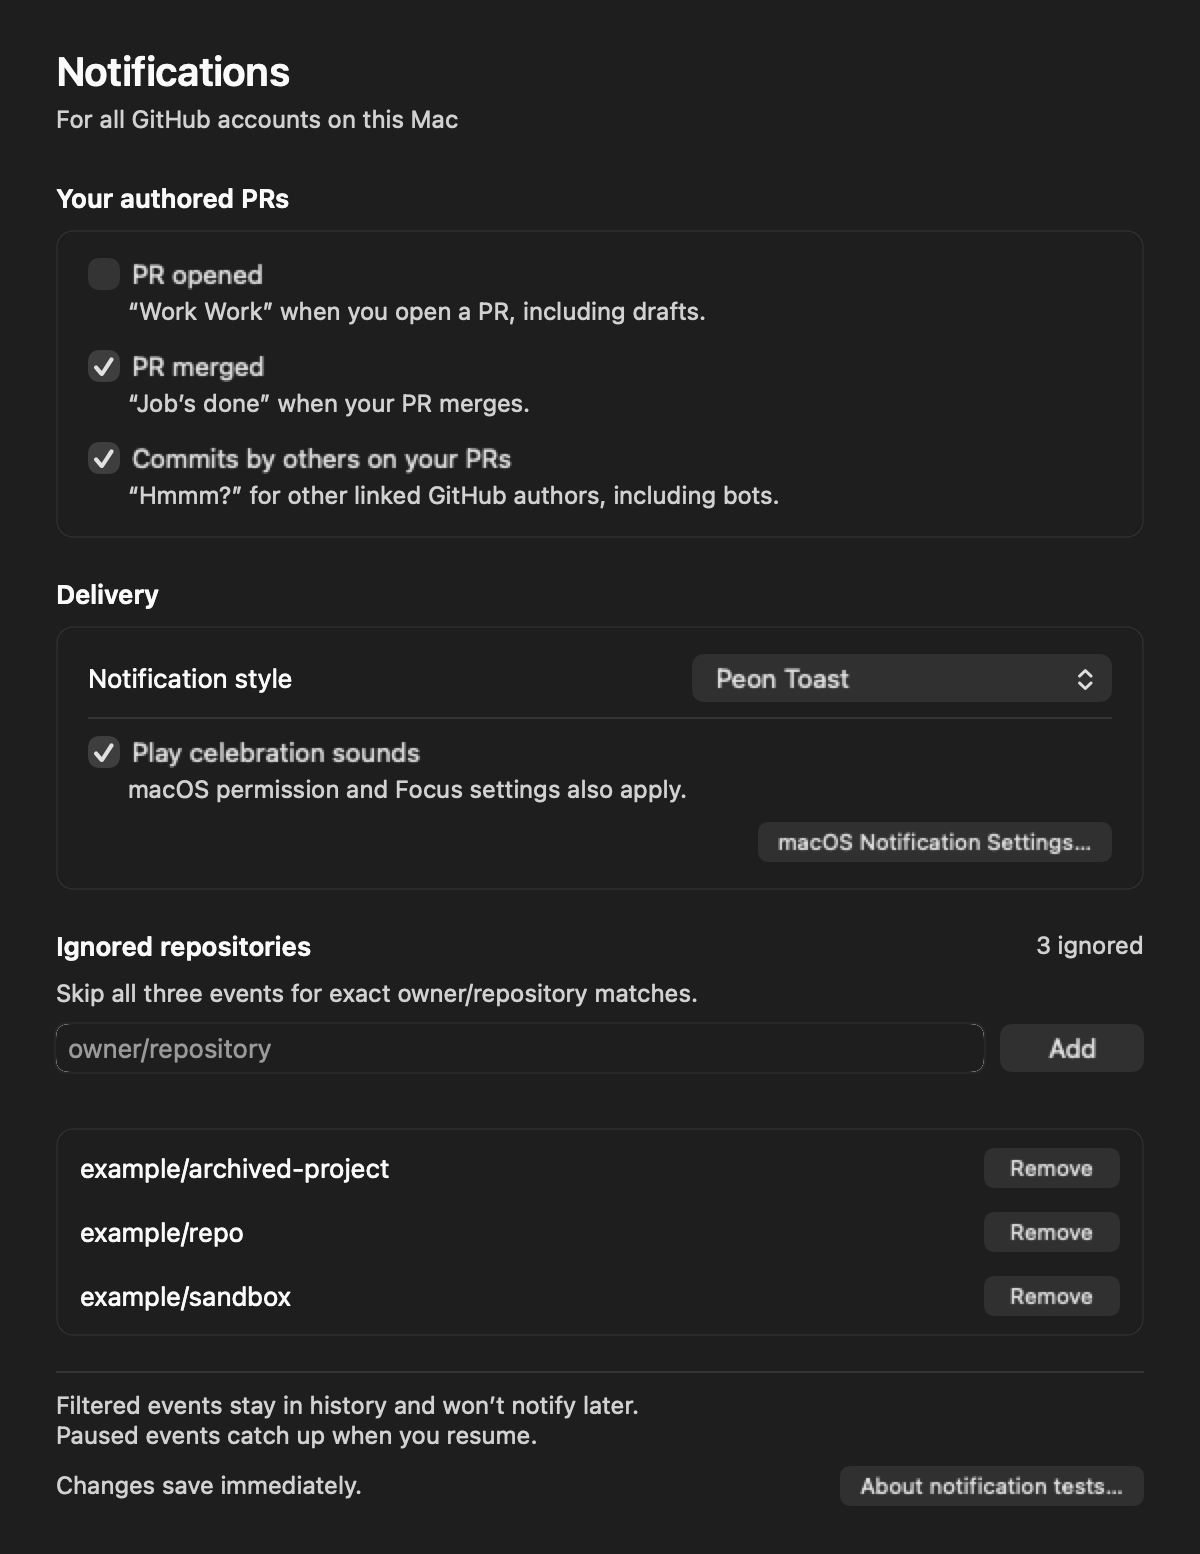
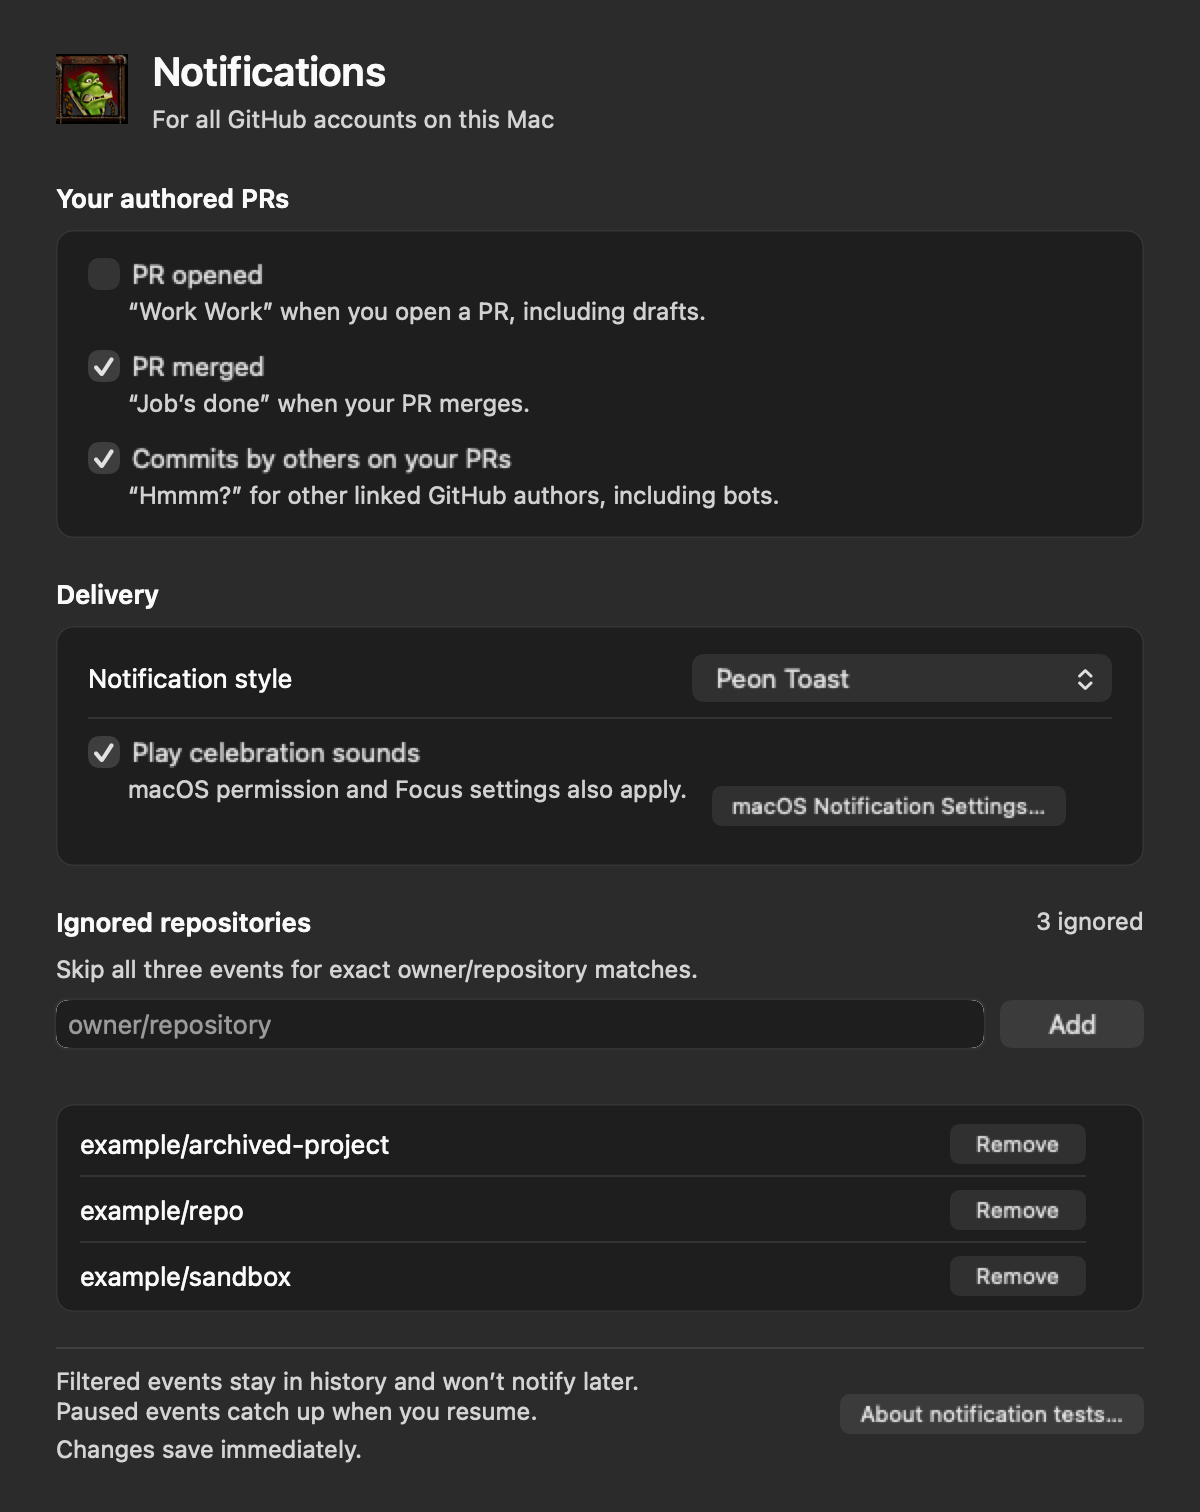
style(settings): refine surfaces and notification pane composition

diff --git a/Sources/NotificationSettings.swift b/Sources/NotificationSettings.swift
@@ -44,7 +44,9 @@ final class NotificationSettingsController: NSWindowController {
         return label
     }
     private func build() {
-        guard let content = window?.contentView else { return }
+        guard let window else { return }
+        let content = SettingsBackground(frame: window.contentView?.frame ?? .zero)
+        window.contentView = content
         let stack = NSStackView()
         stack.orientation = .vertical
         stack.alignment = .leading
@@ -87,7 +89,18 @@ final class NotificationSettingsController: NSWindowController {
         }
         let title = label("Notifications", heading: true)
         title.font = .systemFont(ofSize: 20, weight: .semibold)
-        add(vertical([title, label("For all GitHub accounts on this Mac")], spacing: 4))
+        let titleBlock = vertical([title, label("For all GitHub accounts on this Mac")], spacing: 4)
+        let header = NSStackView(views: [titleBlock])
+        header.spacing = 12
+        if let path = Bundle.main.path(forResource: "PeonPortrait", ofType: "png"), let image = NSImage(contentsOfFile: path) {
+            let portrait = NSImageView(image: image)
+            portrait.imageScaling = .scaleProportionallyUpOrDown
+            portrait.setAccessibilityElement(false)
+            portrait.widthAnchor.constraint(equalToConstant: 36).isActive = true
+            portrait.heightAnchor.constraint(equalToConstant: 36).isActive = true
+            header.insertArrangedSubview(portrait, at: 0)
+        }
+        add(header)
         stack.setCustomSpacing(24, after: stack.arrangedSubviews.last!)
         add(label("Your authored PRs", heading: true))
         var eventRows: [NSView] = []
@@ -124,16 +137,20 @@ final class NotificationSettingsController: NSWindowController {
         soundButton.font = .systemFont(ofSize: 13)
         soundStatus.font = .systemFont(ofSize: 12)
         soundStatus.textColor = .secondaryLabelColor
-        soundStatus.maximumNumberOfLines = 1
-        soundStatus.heightAnchor.constraint(equalToConstant: 16).isActive = true
-        let soundRow = vertical([soundButton, soundStatus], spacing: 3)
-        soundStatus.leadingAnchor.constraint(equalTo: soundRow.leadingAnchor, constant: 20).isActive = true
+        soundStatus.maximumNumberOfLines = 2
+        soundStatus.heightAnchor.constraint(equalToConstant: 32).isActive = true
+        soundStatus.setContentCompressionResistancePriority(.defaultLow, for: .horizontal)
         let systemButton = NSButton(title: "macOS Notification Settings…", target: self, action: #selector(systemSettings))
         systemButton.controlSize = .small
-        let systemRow = NSStackView(views: [NSView(), systemButton])
-        let delivery = vertical([styleRow, separator(), soundRow, systemRow], spacing: 8)
+        systemButton.setContentCompressionResistancePriority(.required, for: .horizontal)
+        let permissionRow = NSStackView(views: [soundStatus, systemButton])
+        permissionRow.spacing = 12
+        let soundRow = vertical([soundButton, permissionRow], spacing: 3)
+        permissionRow.leadingAnchor.constraint(equalTo: soundRow.leadingAnchor, constant: 20).isActive = true
+        permissionRow.trailingAnchor.constraint(equalTo: soundRow.trailingAnchor).isActive = true
+        let delivery = vertical([styleRow, separator(), soundRow], spacing: 8)
         add(surface(delivery))
-        for row in [styleRow, soundRow, systemRow] {
+        for row in [styleRow, soundRow] {
             row.widthAnchor.constraint(equalTo: delivery.widthAnchor).isActive = true
         }
         stack.setCustomSpacing(20, after: stack.arrangedSubviews.last!)
@@ -203,15 +220,18 @@ final class NotificationSettingsController: NSWindowController {
         ])
         stack.setCustomSpacing(18, after: list)
         add(separator())
-        add(label("Filtered events stay in history and won’t notify later.\nPaused events catch up when you resume."))
+        let policy = label("Filtered events stay in history and won’t notify later.\nPaused events catch up when you resume.")
         let saved = label("Changes save immediately.")
+        let footerCopy = vertical([policy, saved], spacing: 4)
         let help = NSButton(title: "About notification tests…", target: self, action: #selector(aboutTests))
         help.bezelStyle = .rounded
         help.controlSize = .small
-        add(NSStackView(views: [saved, NSView(), help]))
+        let footer = NSStackView(views: [footerCopy, NSView(), help])
+        footer.spacing = 12
+        add(footer)
         content.layoutSubtreeIfNeeded()
-        window?.setContentSize(NSSize(width: 600, height: stack.fittingSize.height + 48))
-        window?.initialFirstResponder = repositoryField
+        window.setContentSize(NSSize(width: 600, height: stack.fittingSize.height + 48))
+        window.initialFirstResponder = repositoryField
     }
     @objc private func aboutTests() {
         guard let window else { return }
@@ -233,7 +253,13 @@ final class NotificationSettingsController: NSWindowController {
         for view in entries.arrangedSubviews { entries.removeArrangedSubview(view); view.removeFromSuperview() }
         repositoryCount.stringValue = "\(repositories.count) ignored"
         emptyState.isHidden = !repositories.isEmpty
-        for repo in repositories {
+        for (index, repo) in repositories.enumerated() {
+            if index > 0 {
+                let separator = NSBox()
+                separator.boxType = .separator
+                entries.addArrangedSubview(separator)
+                separator.widthAnchor.constraint(equalTo: entries.widthAnchor, constant: -24).isActive = true
+            }
             let name = NSTextField(labelWithString: repo)
             name.font = .systemFont(ofSize: 13)
             name.lineBreakMode = .byTruncatingMiddle
@@ -301,5 +327,13 @@ private final class SettingsSurface: NSView {
         NSColor.separatorColor.setStroke()
         path.lineWidth = 0.5
         path.stroke()
+    }
+}
+
+private final class SettingsBackground: NSView {
+    override func draw(_ dirtyRect: NSRect) {
+        let background = NSColor.windowBackgroundColor.blended(withFraction: 0.04, of: .labelColor) ?? .windowBackgroundColor
+        background.setFill()
+        bounds.fill()
     }
 }
